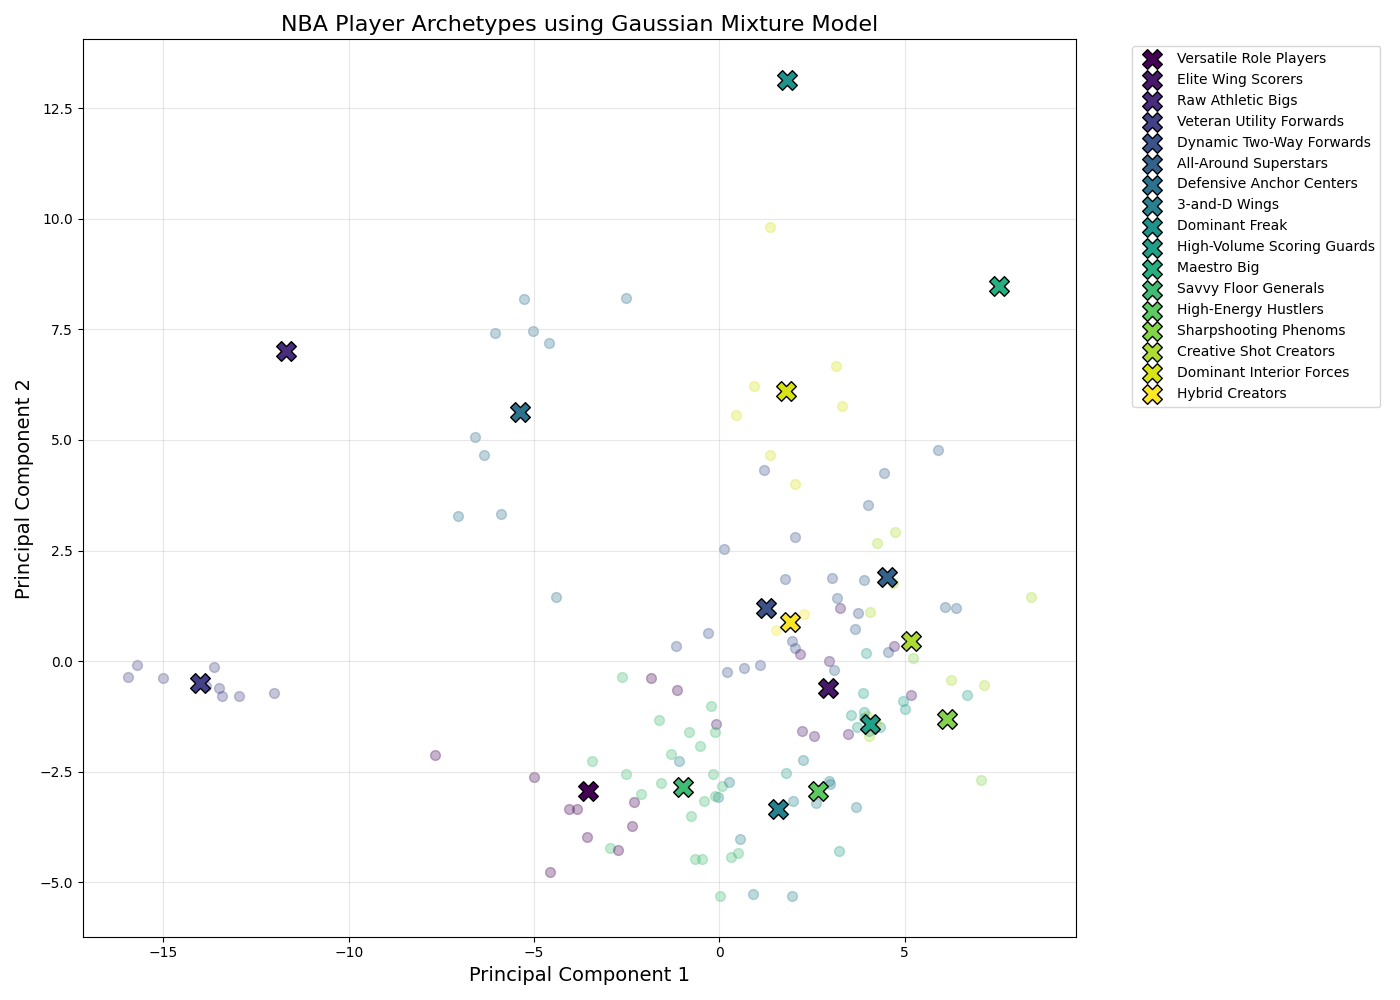
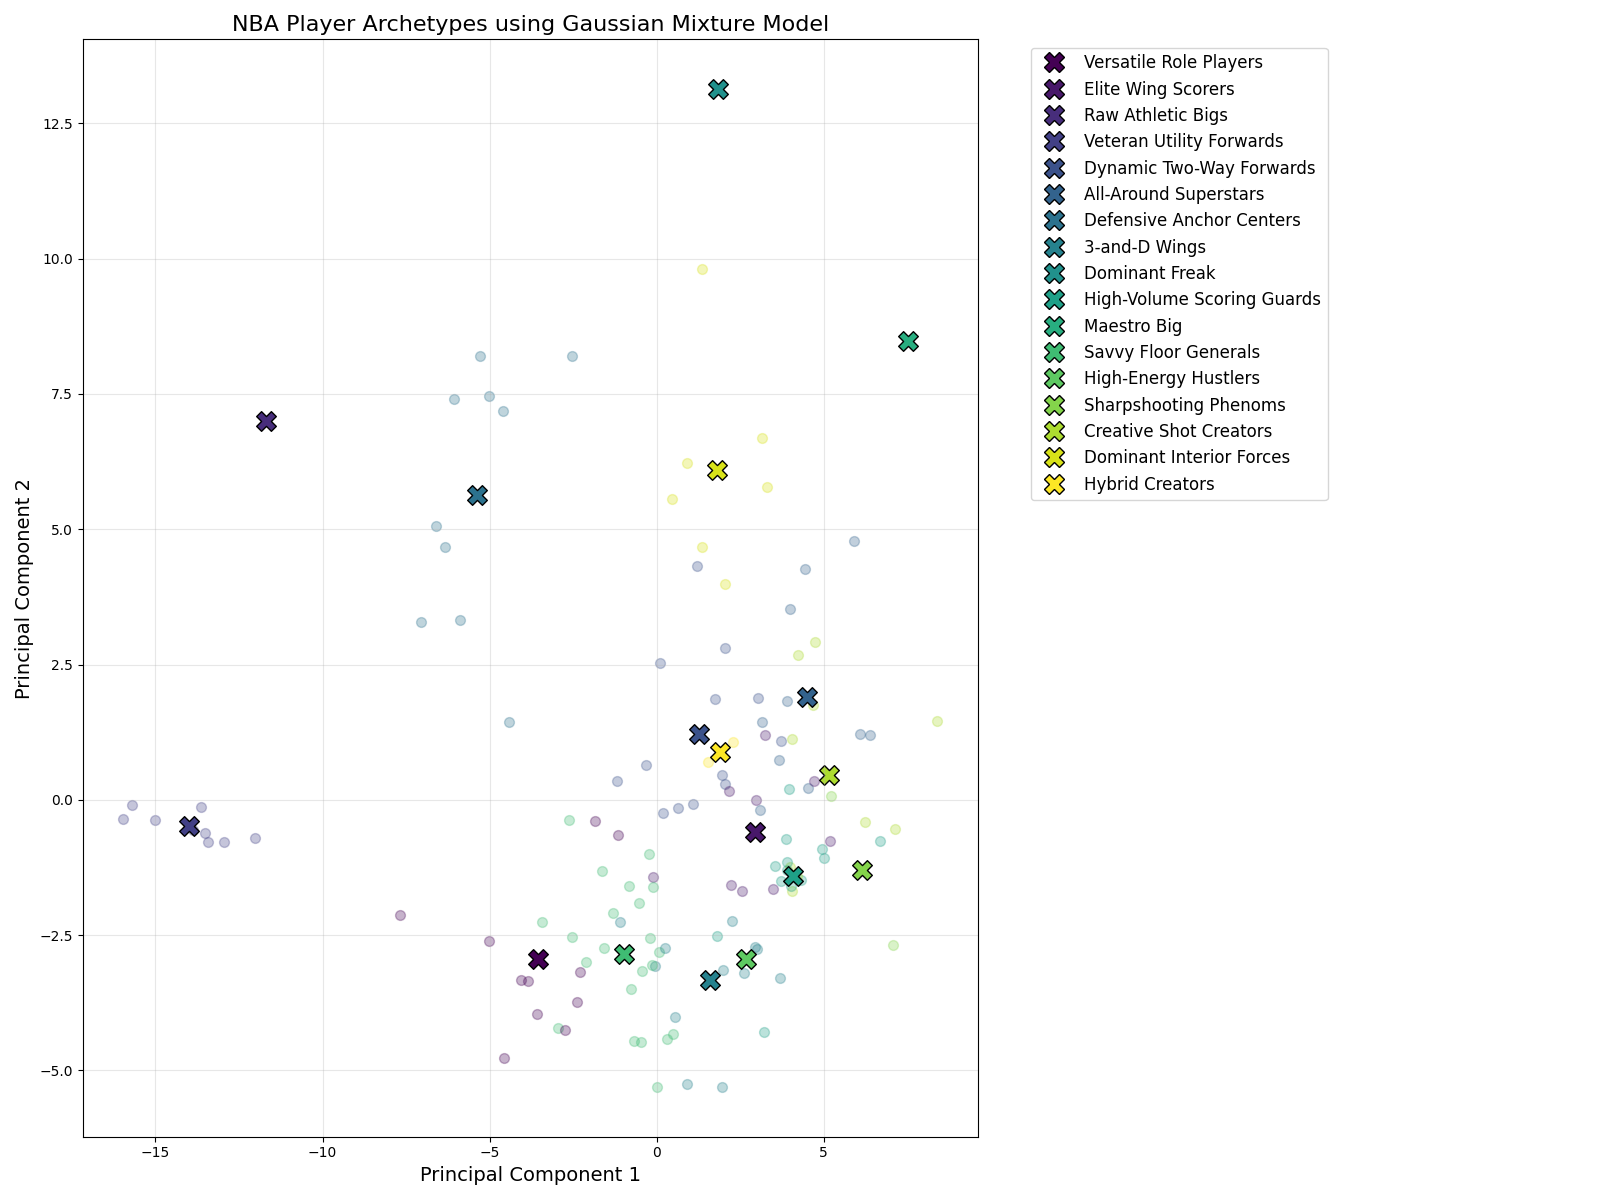
style: container margin adjustment

diff --git a/static/style.css b/static/style.css
@@ -18,8 +18,7 @@ body {
     border-radius: 12px;
     box-shadow: 0 4px 12px rgba(0, 0, 0, 0.1);
     text-align: center;
-    border: 1px red solid;
-    margin-bottom: 100px;
+    margin-bottom: 100px !important;
 }
 
 /* Headings */
@@ -252,13 +251,23 @@ footer a:hover {
     color: var(--secondary);
   }
 
-/* Multi-Player Comparison Styles */
-
-/* Define the main container for the comparison page */
-#players-container {
-    max-width: calc(100vw - 200px); /* Adjust margin as needed */
+  #players-selection {
     margin: 50px auto;
     padding: 40px;
+    background: #fff;
+    border-radius: 12px;
+    box-shadow: 0 4px 12px rgba(0, 0, 0, 0.1);
+    text-align: center;
+}
+
+/* Multi-Player Comparison Styles */
+#players-container {
+    display: block;
+    width: fit-content;
+    max-width: calc(100vw - 200px);
+    min-width: 800px;
+    margin: 50px auto;
+    padding: 0 50px ;
     background: #fff;
     border-radius: 12px;
     box-shadow: 0 4px 12px rgba(0, 0, 0, 0.1);

diff --git a/templates/compare.html b/templates/compare.html
@@ -15,7 +15,7 @@
         </a>
         <h1>Compare Players</h1>
         <form action="/compare_players" method="POST">
-            <div id="players-container">
+            <div id="players-selection">
                 <div class="column">
                     <label for="player1_name">Enter Player 1 Name:</label>
                     <input type="text" id="player1_name" name="player1_name" placeholder="e.g., Stephen Curry" required>

diff --git a/centroid_clustering.py b/centroid_clustering.py
@@ -210,7 +210,7 @@ def visualize_clusters(X, cluster_probs, gmm, archetype_mapping):
     colors = plt.cm.viridis(np.linspace(0, 1, len(archetype_mapping)))
     
     # Plot points with cluster colors
-    plt.figure(figsize=(14, 10))
+    plt.figure(figsize=(16, 12))  # Increase figure size for better spacing
     
     # First plot all points with low alpha
     for i, label in enumerate(cluster_labels):
@@ -219,19 +219,25 @@ def visualize_clusters(X, cluster_probs, gmm, archetype_mapping):
     # Then plot centroids
     for i, mean in enumerate(gmm.means_):
         plt.scatter(mean[0], mean[1], color=colors[i], marker='X', 
-                   s=200, edgecolor='black', label=archetype_mapping[i])
+                   s=200, edgecolor='black')  # Remove inline labels
     
     plt.title("NBA Player Archetypes using Gaussian Mixture Model", fontsize=16)
     plt.xlabel("Principal Component 1", fontsize=14)
     plt.ylabel("Principal Component 2", fontsize=14)
     plt.grid(True, alpha=0.3)
-    plt.legend(bbox_to_anchor=(1.05, 1), loc='upper left')
-    plt.tight_layout()
+    
+    # Create a separate legend with better positioning
+    plt.legend([plt.Line2D([0], [0], marker='X', color='w', markerfacecolor=colors[i], 
+                          markersize=15, markeredgecolor='black') for i in range(len(archetype_mapping))],
+              [archetype_mapping[i] for i in range(len(archetype_mapping))],
+              bbox_to_anchor=(1.05, 1), loc='upper left', fontsize=12)
+    
+    plt.tight_layout(rect=[0, 0, 0.85, 1])  # Adjust layout to make room for legend
     plt.savefig(os.path.join(OUTPUT_DIR, "cluster_visualization.png"))
     plt.close()
     
     # Create a second visualization showing probability distributions
-    plt.figure(figsize=(14, 10))
+    plt.figure(figsize=(16, 12))  # Increase figure size
     
     # For each point, draw lines to centroids with width proportional to probability
     for i in range(len(X)):
@@ -247,14 +253,20 @@ def visualize_clusters(X, cluster_probs, gmm, archetype_mapping):
     
     for i, mean in enumerate(gmm.means_):
         plt.scatter(mean[0], mean[1], color=colors[i], marker='X', 
-                   s=200, edgecolor='black', label=archetype_mapping[i])
+                   s=200, edgecolor='black')  # Remove inline labels
     
     plt.title("NBA Player Archetype Probability Visualization", fontsize=16)
     plt.xlabel("Principal Component 1", fontsize=14)
     plt.ylabel("Principal Component 2", fontsize=14)
     plt.grid(True, alpha=0.3)
-    plt.legend(bbox_to_anchor=(1.05, 1), loc='upper left')
-    plt.tight_layout()
+    
+    # Create a separate legend with better positioning
+    plt.legend([plt.Line2D([0], [0], marker='X', color='w', markerfacecolor=colors[i], 
+                          markersize=15, markeredgecolor='black') for i in range(len(archetype_mapping))],
+              [archetype_mapping[i] for i in range(len(archetype_mapping))],
+              bbox_to_anchor=(1.05, 1), loc='upper left', fontsize=12)
+    
+    plt.tight_layout(rect=[0, 0, 0.85, 1])  # Adjust layout to make room for legend
     plt.savefig(os.path.join(OUTPUT_DIR, "probability_visualization.png"))
     plt.close()
 
